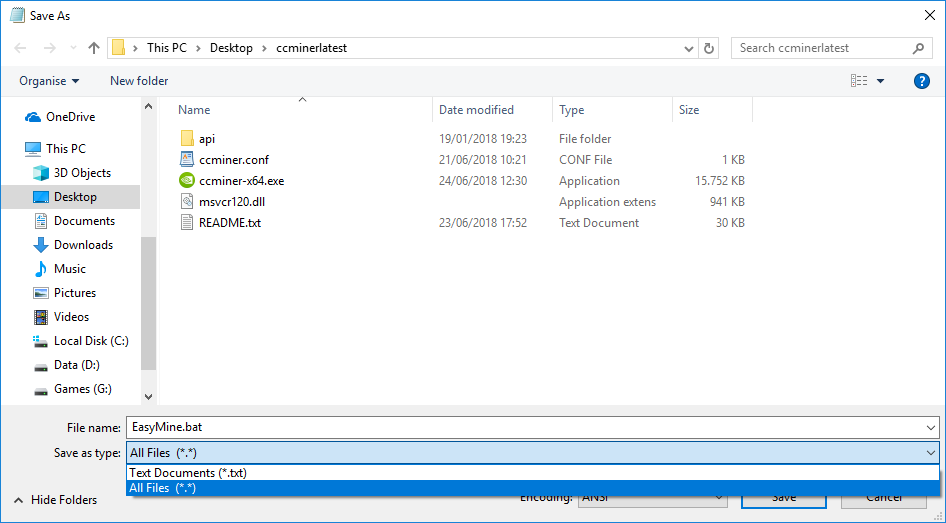
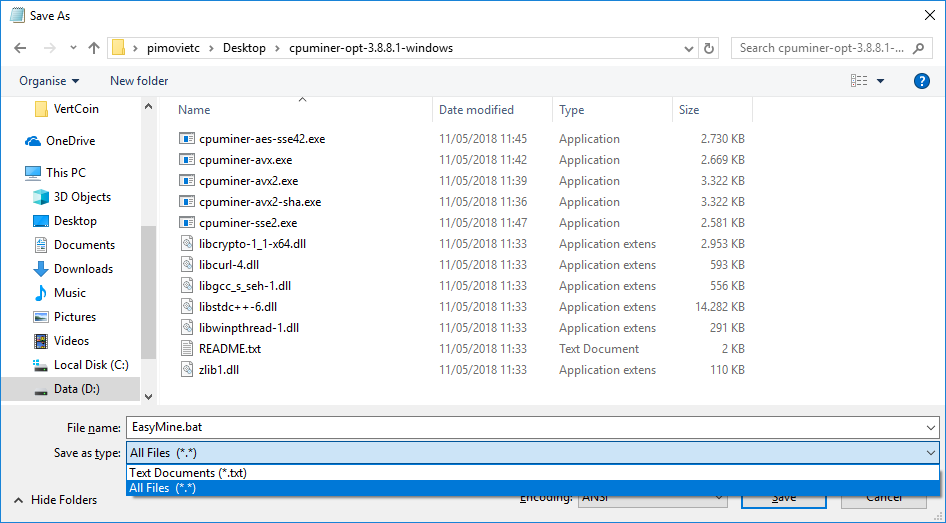
Updates to GlobalBoost Guide

diff --git a/GlobalBoost/index.htm b/GlobalBoost/index.htm
@@ -39,7 +39,36 @@
 		<h1>Generate BAT file</h1>
 	</div>
 	<div id="generate" class="content">
-		<p>With the form below you can generate the BAT file for you miner, which you'll need to start it. If you add this file to the folder that contains the CCminer then you're ready to start mining. The top field takes your Miner's address and the second field (optionally) a worker name. Pressing <b>"Download BAT"</b> will initiate a download of the file itself, additionally it will put the content of this BAT in the text field below. Incase you want to create your own BAT file.</p>
+		<p>With the form below you can generate the BAT file for you miner, which you'll need to start it. If you add this file to the folder that contains the CPUminer then you're ready to start mining. The top field takes your Miner's address, the second field (optionally) a worker name and the dropdown menu selects which executable to use. Below we provide a table that can be used as a rule of thumb however, we advise that you try out the different variants for your CPU yourself as individual results may vary.</p>
+
+		<table class="in_guide_table">
+				<tr>
+					<th>Executable Name</th>
+					<th>Architecture Name</th>
+				</tr>
+				<tr>
+					<td>cpuminer-sse2.exe</td>
+					<td>Core 2, Nehalem</td>
+				</tr>
+				<tr>
+					<td>cpuminer-aes-sse42.exe</td>
+					<td>Westmere, Sandy/Ivy Bridge </td>
+				</tr>
+				<tr>
+					<td>cpuminer-avx.exe</td>
+					<td>Sandy/Ivy Bridge</td>
+				</tr>
+				<tr>
+					<td>cpuminer-avx2.exe</td>
+					<td>Haswell, Sky/Kaby/Coffee Lake</td>
+				</tr>
+				<tr>
+					<td>cpuminer-avx2-sha.exe</td>
+					<td>Ryzen</td>
+				</tr>
+			</table>
+
+		<p>Pressing <b>"Download BAT"</b> will initiate a download of the file itself, additionally it will put the content of this BAT in the text field below. Incase you want to create your own BAT file.</p>
 		<form>
 			<input type="text" class="field" name="address" id="address" maxlength="34" value="VgT29UCrpQyJphre4LztiU1qf1cAaA4RNG"><br />
 			<input type="text" class="field" name="worker" id="worker" maxlength="20" placeholder="Worker Name, max 20 characters"><br />
@@ -74,15 +103,6 @@
 	    		</ul>
 	    	</li>
 			<li><a href="#Step3">Step 3 - Adding your Unitus Address to Easy Mine</a>
-			  	<ul>
-			    	<li><a href="#Step3A">Step 3A - Ledger specific steps</a></li>
-			  	</ul>
-			</li>
-			<li><a href="#Step4">Step 4 - Bonus: How to OC your GPU</a>
-			  	<ul>
-			    	<li><a href="#Step4A">Step 4A - Setting up MSI Afterburner</a></li>
-			    	<li><a href="#Step4B">Step 4B - Settings for Lyra2rev2</a></li>
-			  	</ul>
 			</li>
 		</ul>
 	</div>
@@ -135,12 +155,12 @@
 	</div>
 	<div id="div_step2" class="content">
 		<p>To mine GlobalBoost, we’ll need a mining tool that uses the Yescrypt algorithm. We will use the latest cpuminer-opt release. You can find this release on the JayDDee/cpuminer-opt github or you can directly find it here: <a href="https://github.com/JayDDee/cpuminer-opt/releases/" target="_blank">https://github.com/JayDDee/cpuminer-opt/releases/</a>.</p>
-		<p>Note make sure you download the <b>cpuminer-opt-X.X.X.X-windows.zip</b> file, that archive contains a precompiled version of the miner.</p>
+		<p>Note make sure you download the <b>cpuminer-opt-X.X.X.X-windows.zip</b> file, that archive contains precompiled versions of the miner.</p>
 
 			<a name="Step2.1"></a>
 			<h4>Step 2.1 - Setting up the actual miner, bat files and such</h4>
 			<img src="images/step2/step2_miner_1.png" />
-			<p>After extraction, your Miner’s folder should look like this. Depending on your CPU you will need a different executable.</p>
+			<p>After extraction, your Miner’s folder should look like this. Depending on your CPU you should use a different executable. Below we provide a table that can be used as a rule of thumb however, we advise that you try out the different variants for your CPU yourself as individual results may vary.</p>
 			<table class="in_guide_table">
 				<tr>
 					<th>Executable Name</th>
@@ -169,9 +189,9 @@
 			</table>
 			<img src="images/step2/step2_miner_2.png" />
 			<p>Open your favorite text editor (we’ll use Notepad), and paste the following without quotation marks:<br />
-				<b>“ccminer-x64 -a lyra2v2 -o stratum+tcp://lyra2.easymine.online:5000 -u YOUR_BSTY_ADDRESS.WORKER_NAME -p x”</b><br />
+				<b>“EXECUTABLE -a yescrypt -o stratum+tcp://yescrypt.easymine.online:6500 -u YOUR_BSTY_ADDRESS.WORKER_NAME -p x”</b><br />
 				for example<br />
-				<b>“ccminer-x64 -a lyra2v2 -o stratum+tcp://lyra2.easymine.online:5000 -u VgT29UCrpQyJphre4LztiU1qf1cAaA4RNG.donate -p x”</b><br />
+				<b>“cpuminer-sse2.exe -a yescrypt -o stratum+tcp://yescrypt.easymine.online:6500 -u YOUR_BSTY_ADDRESS -p x”</b><br />
 				Then press Save As, give it a fancy name like EasyMine.bat (the extension is important!), and don’t forget to switch the Save as Type to <b>All Files</b>.
 			<p>If you want to, you can omit the worker name and only use your BSTY address (note - do not use the . if you’re not using a worker name!)</p>
 			<p><b>Alternatively you can generate your BAT file over <a href="#generate">here</a>.</b></p>
@@ -181,8 +201,8 @@
 			<img src="images/step2/step2_miner_3.png" />
 			<p>You can now launch your miner by double clicking on EasyMine.bat (the extension might be hidden!). If everything is working correctly, you should start seeing shares being accepted.</p>
 			<img src="images/step2/step2_miner_4.png" />
-			<p>Lastly, you’d want to verify if everything is working by going to <b>https://vertcoin.easymine.online/miner/YOUR_ADDRESS</b><br />
-				for example: <a href="https://vertcoin.easymine.online/miner/VgT29UCrpQyJphre4LztiU1qf1cAaA4RNG" target="_blank">https://vertcoin.easymine.online/miner/VgT29UCrpQyJphre4LztiU1qf1cAaA4RNG</a><br />
+			<p>Lastly, you’d want to verify if everything is working by going to <b>https://globalboost.easymine.online/miner/YOUR_ADDRESS</b><br />
+				for example: <a href="https://globalboost.easymine.online/miner/VgT29UCrpQyJphre4LztiU1qf1cAaA4RNG" target="_blank">https://globalboost.easymine.online/miner/VgT29UCrpQyJphre4LztiU1qf1cAaA4RNG</a><br />
 				After a while, you should be able to see some shares trickling in. These will eventually result in a payment to your Wallet!</p>
 
 			<p>If you see shares on your miner’s page, then you’re officially mining GlobalBoost, congratulations! You can now go to <a href="#Step3"><b>Step 3</b></a> to link your Unitus wallet to your Miner. If you don’t, you’ll still be mining both BSTY and UIS. The UIS will be stored in your pending rewards until you either add a wallet or become inactive for too long.</p>
@@ -195,9 +215,8 @@
 	<div id="div_step3" class="content">
 		<p>Next up - we want to add our UIS wallet to our EasyMine page to enable payouts for UIS! We’ll be needing the Unitus address, the GlobalBoost Wallet and our EasyMine miner’s page. This guide explains the process from the GlobalBoost Core Wallet. The process is similar for the other wallets. However, some things might look different.</p>
 
-		<p><b>If you’re using a Ledger as your GlobalBoost wallet, the signing process is a bit different. You’ll want to skim through the “normal” guide, and then read <a href="#Step3A"><b>Step 3A</b></a> for Ledger specifics.</b></p>
 		<img src="images/step3/step3_page_1.png" />
-		<p>Under <b>“Miner General Information”</b>, locate the blue pencil next to <b>“Payout Address”</b>. This will take you directly to <i>https://vertcoin.easymine.online/settings/YOUR_ADDRESS</i>, which is where you can change your account settings, including your UIS payout address.</p>
+		<p>Under <b>“Miner General Information”</b>, locate the blue pencil next to <b>“Payout Address”</b>. This will take you directly to <i>https://globalboost.easymine.online/settings/YOUR_ADDRESS</i>, which is where you can change your account settings, including your UIS payout address.</p>
 		<img src="images/step3/step3_page_2.png" />
 		<p>Each time you visit this page, it will show you a (newly generated) message that you need to sign with your wallet. Note that it also tells you that you MUST sign it from your miner’s address. This is important because most wallets will automatically generate new addresses (which are all linked together), and you have to pay attention that you’re using the correct one!</p>
 		<img src="images/step3/step3_page_2a.png" />
@@ -209,20 +228,7 @@
 		<img src="images/step3/step3_page_5.png" />
 		<p>After a while, you should be able to see the changes take effect on your Miner’s Page. It will take some time before your UIS address is validated. However, once it is you’ll start receiving UIS payouts!</p>
 		<p>Congratulations! You’ve successfully set up your miner, BSTY and UIS wallets!</p>
-		
-		<a name="Step3A"></a>
-		<h3>Step 3A - Ledger specific steps</h3>
-			<p>When mining directly to a Ledger wallet, the process of signing messages is a tiny bit different. The main idea is of course very similar, but the Ledger generates a larger message padded with some reiterated data which must be removed.</p>
-			<p><b>Also a side note - If you’re mining directly to the Ledger, please use a high payout threshold. This will make it so you only receive a single payout per day and will help alleviate the amount of traffic that Ledger has to process!</b></p>
-			
-			<img src="images/step3/ledger_step1.png" />
-			<p>After opening your BSTY wallet on your Ledger, navigate to <b>Settings</b> and open <b>Tools</b>.</p>
-			<img src="images/step3/ledger_step2.png" />
-			<p>From this menu, go to <b>“Sign message”</b></p>
-			<img src="images/step3/ledger_step3.png" />
-			<p>Now, in this step it is very <b>IMPORTANT</b> to select the correct address from the dropdown menu. Then copy the message from your EasyMine miner’s page and press Sign.</p>
-			<img src="images/step3/ledger_step4.png" />
-			<p>After a short moment, you’ll be presented with the signed message. You’ll see some headers to increase readability and some repetitions of the original message and your wallet’s address. However, on EasyMine we’re only  interested in the actual signature, which is the part left readable in the above image. So <b>IKWIwcg…LsNXDA=</b>.</p>
+
 		<a href="#top">Back to top</a>
 	</div>
 </div>

diff --git a/GlobalBoost/colors.css b/GlobalBoost/colors.css
@@ -14,7 +14,7 @@ body{
 h1, .h1{color: var(--colorlight);}
 h2, .h2{color: #fff}
 
-.content, .header, #generate input, #generate textarea, #submitdiv {
+.content, .header, #generate input, #generate textarea, #submitdiv, select {
     border-color: var(--colortheme);
 }
 
